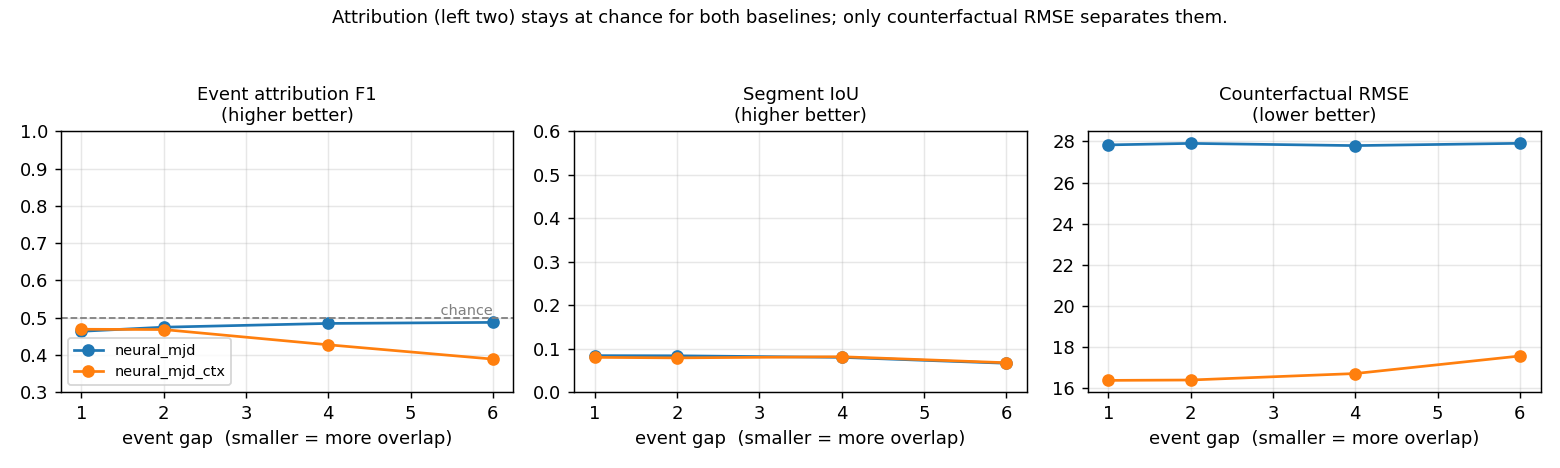
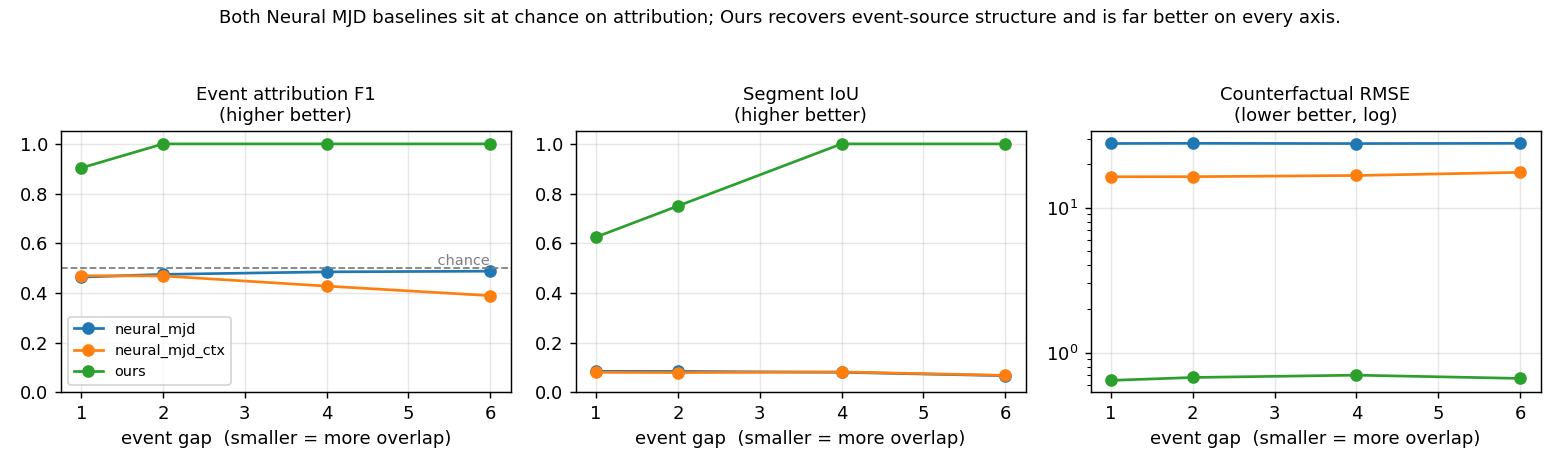
Record full three-method results and 4-panel figure
Final metrics (gaps 1,2,4,6 avg):
  Forecast MAE        16.08 / 10.57 / 0.50  (mjd / +ctx / ours)
  Jump-time MAE       15.11 / 3.27  / 0.60
  Attribution F1       0.48 / 0.44  / 0.98
  Segment IoU          0.08 / 0.08  / 0.84
  Counterfactual RMSE 27.86 / 16.78 / 0.67
Ours attribution F1 stays 0.90-1.00 across overlap; baselines at chance.
Replaces three_panel with four_panel (adds Ours per-event lambda_i).

diff --git a/experiments/event_response/README.md b/experiments/event_response/README.md
@@ -88,7 +88,24 @@ Artifacts → `results/`: `metrics.{json,csv}`, `four_panel.png`, `overlap_robus
 
 ## Results
 
-<!-- RESULTS_TABLE -->
+Averaged over overlap gaps `g ∈ {1,2,4,6}` (full run, CPU):
+
+| Metric | `neural_mjd` | `neural_mjd_ctx` | **`ours`** | better |
+|---|---:|---:|---:|---|
+| Forecast MAE (raw) | 16.08 | 10.57 | **0.50** | lower |
+| Jump-time MAE (steps) | 15.11 | 3.27 | **0.60** | lower |
+| Event attribution F1 | 0.48 | 0.44 | **0.98** | higher |
+| Segment IoU | 0.08 | 0.08 | **0.84** | higher |
+| Counterfactual RMSE | 27.86 | 16.78 | **0.67** | lower |
+
+Overlap robustness — event attribution F1 as the responses overlap (`g→1`):
+
+| method | g=6 | g=4 | g=2 | g=1 |
+|---|---:|---:|---:|---:|
+| `neural_mjd` | 0.49 | 0.48 | 0.47 | 0.46 |
+| `neural_mjd_ctx` | 0.39 | 0.43 | 0.47 | 0.47 |
+| **`ours`** | **1.00** | **1.00** | **1.00** | **0.90** |
+
 
 The pattern (see `results/`):
 